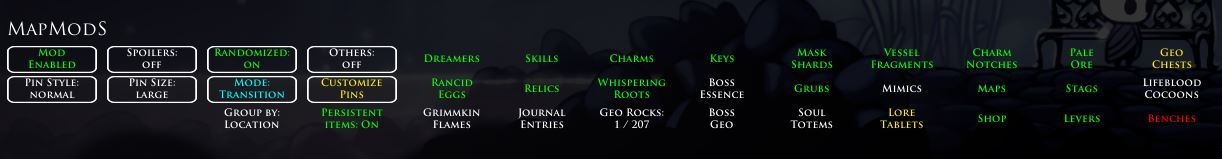
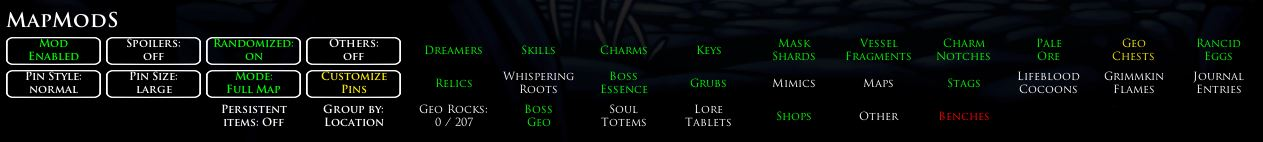
Update readme and assets

diff --git a/README.md b/README.md
@@ -9,6 +9,7 @@ This fork of CaptainDapper's original mod has been expanded on with many more fe
 Dependencies:
 - [RandomizerMod v4.0.3](https://github.com/homothetyhk/RandomizerMod) and all of its dependencies. Does NOT work with earlier versions
 - [ConnectionMetadataInjector v1.1.8107.6258](https://github.com/BadMagic100/ConnectionMetadataInjector). Does NOT work with earlier versions
+- [MagicUI v1.4.8178.42957](https://github.com/BadMagic100/HollowKnight.MagicUI). Does NOT work with earlier versions
 - [Vasi](https://github.com/fifty-six/HollowKnight.Vasi)
 
 Compatible optional mods:
@@ -38,40 +39,42 @@ This mod has support for languages other than English. You will need to source a
 - Big Pins: Items are reachable according to RandomizerMod's logic
 - Small Pins: Items are not randomized or not reachable
 - Pins will disappear as you clear their locations. If item previews are enabled, it will show the corresponding previewed item.
-- Check out the [Map Legend](./MAPLEGEND.md) for more details on what each pin means, including the border colors.
 - Pin settings are displayed at the bottom. See Pause Menu for more info on the toggles.
-- ``CTRL-L``: In the World Map, toggle a panel for pin lookup on/off.
+- ``CTRL-H``: Expand/collapse the hotkey panel
+- ``SHIFT``: Pan faster (same as right thumbstick on controller).
+- ``CTRL-K``: Toggle a panel for the map key for the pin and room colors.
+    - Check out the [Map Legend](./MAPLEGEND.md) for more details on each pin style.
+- ``CTRL-L``: Toggle a panel for pin lookup on/off.
     - Hover over any visible pin to display info about the name, room, status, logic requirements, previewed items (if any) and spoiler items (if Spoilers on).
-    - This feature is disabled in "Transition" mode.
 
 ## Pause Menu
-- "Mod Enabled/Disabled": Toggle the mod on/off
+- "Mod Enabled/Disabled" `CTRL-M`: Toggle the mod on/off
 - "Spoilers" `CTRL-1`: Toggle pins between vanilla (non-spoiler) and spoiler item pools
 - "Randomized" `CTRL-2`: Toggle all pins for randomized items on/off
 - "Others" `CTRL-3`: Toggle all pins for non-randomized items on/off
 - "Pin Style" `CTRL-4`: Toggle the style of the pins
 - "Pin Size" `CTRL-5`: Toggle the size of the pins
 - "Mode": Toggle the map mode
-    - "Transition": For transition rando runs only. See more info below.
-    - "Transition 2": For area rando runs only. Instead of showing all in-logic + visited rooms, only visited rooms appear
+    - "Transition": See more info below.
+    - "Transition 2": Instead of showing all in-logic + visited rooms, only visited rooms appear. Depending on your randomizer run, this might not change anything (and therefore may not be an option).
     - "Full Map": Shows all pins and the full map regardless of map items obtained
     - "All Pins": Shows all pins, but only show map areas for obtained map items
     - "Pins Over Map": Only show pins over where the corresponding map item has been obtained
 - "Customize Pins":
     - Toggle each pool on/off.
-    - You can control whether the pool toggles are grouped by location, or by item (spoiler).
-    - You can also control whether persistent items are always showing or not.
+    - Control whether the pool toggles are grouped by location, or by item (spoiler).
+    - Control whether persistent items are always showing or not.
 
 ## Transition Mode
-- Check out the [Map Legend](./MAPLEGEND.md) for more details on what the colors/brightness of each room indicate.
-- Hover over the selected room and press your bound `Menu Select` button to find a path. By default, this is the same as the button for jumping on your controller, or the `Enter` key on your keyboard.
+- Check out the in-game map key (`CTRL-K`) or the [Map Legend](./MAPLEGEND.md) for what the colors/brightness of each room indicate.
+- Hover over a room and press the indicated key or button to find a path.
 - If successful, the path route will be displayed. You can try again to change the start/final transition to what you want.
-- A compass arrow will point to the next transition you need to go to (if it's not a special transition like a Benchwarp or stag).
-- The route text will also be visible from the Quick Map, and in-game (see below toggle). As you make the correct transitions, those transitions will get cleared from the route.
+- A compass arrow will point to the next transition you need to go to.
+- As you make the correct transitions, they will get cleared from the route.
 - The Quick Map also shows the list of unchecked and visited transitions for the current room.
 - `CTRL-B`: Toggle including Benchwarp in the pathfinder on/off.
 - `CTRL-R`: Toggle the route to be displayed in-game full/next transition only/off.
-- `CTRL-U`: Toggle the panel for unchecked and visited transitions in the World Map.
+- `CTRL-U`: Show/hide unchecked and visited transitions in the World Map.
 - `CTRL-C`: Toggle the route compass on/off.
 
 # How To Install
@@ -87,3 +90,4 @@ Or, you can install manually:
 - PimpasPimpinela for helping to port the mod from Rando 3 to Rando 4
 - Chaktis, KingKiller39 and Ender Onryo for helping with sprite art
 - ColetteMSLP for testing out the mod during livestreams
+- BadMagic for CMICore/MagicUI and help with the UI migration
